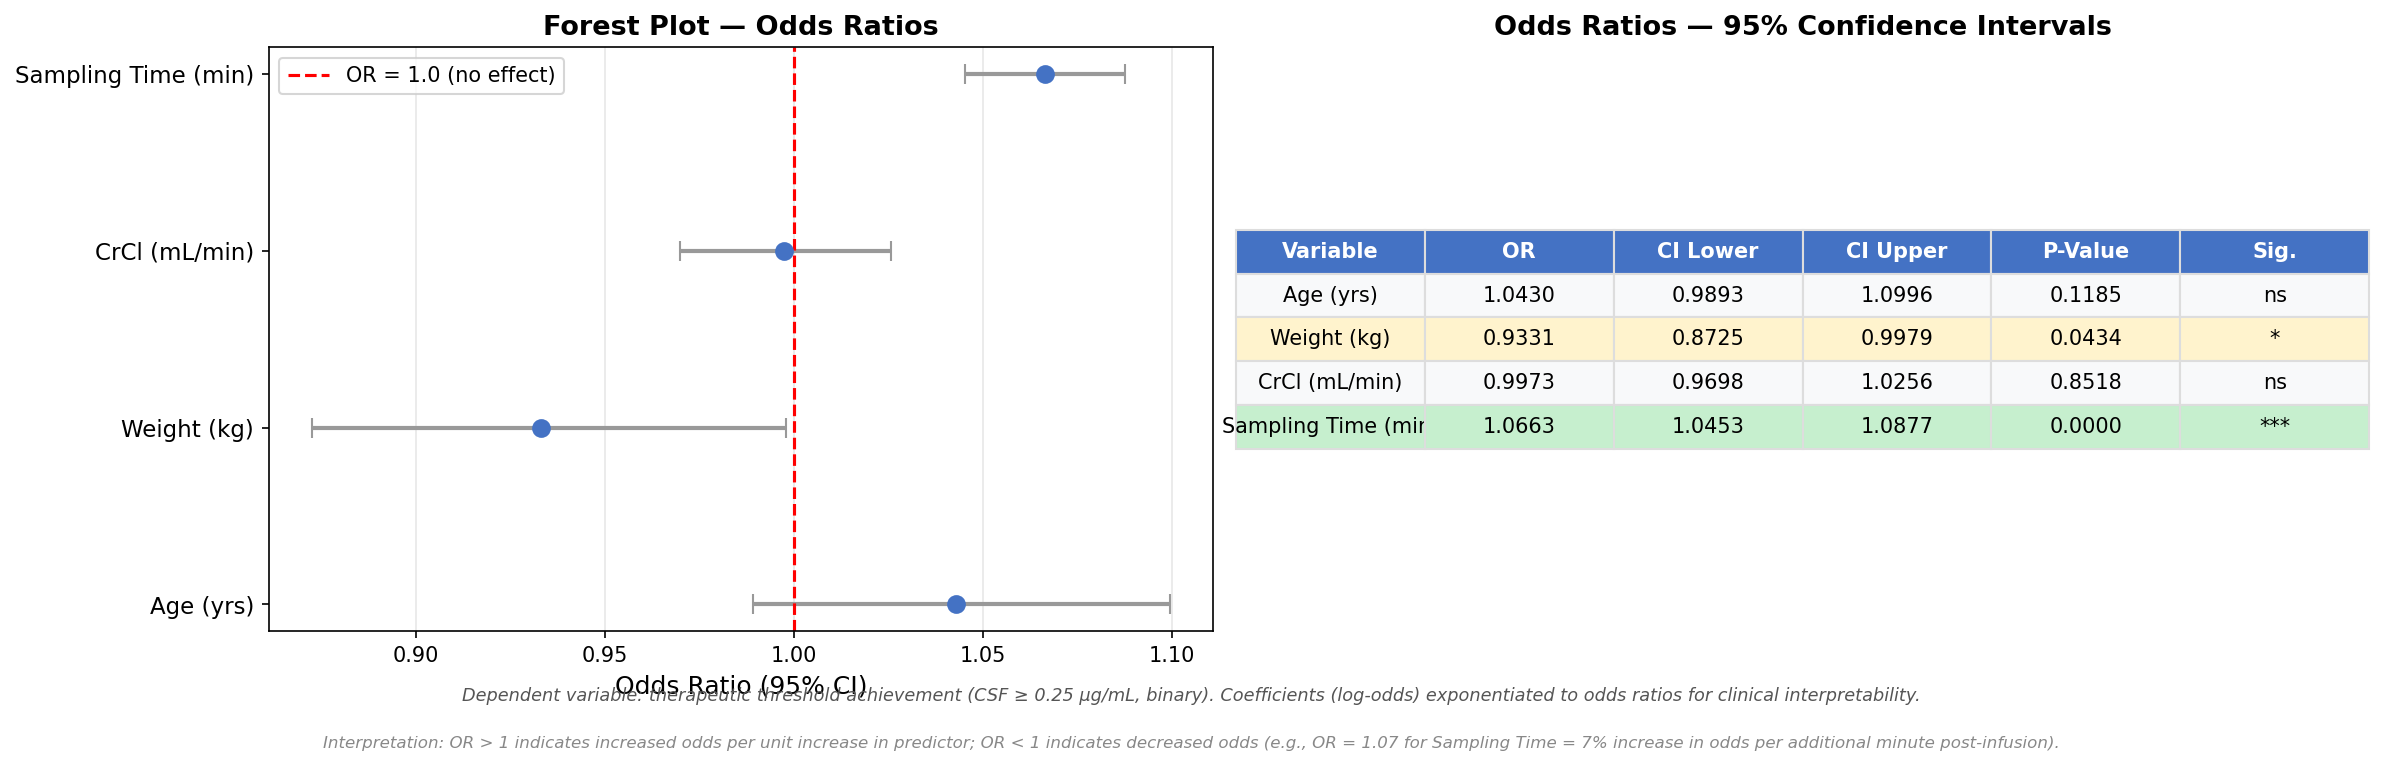
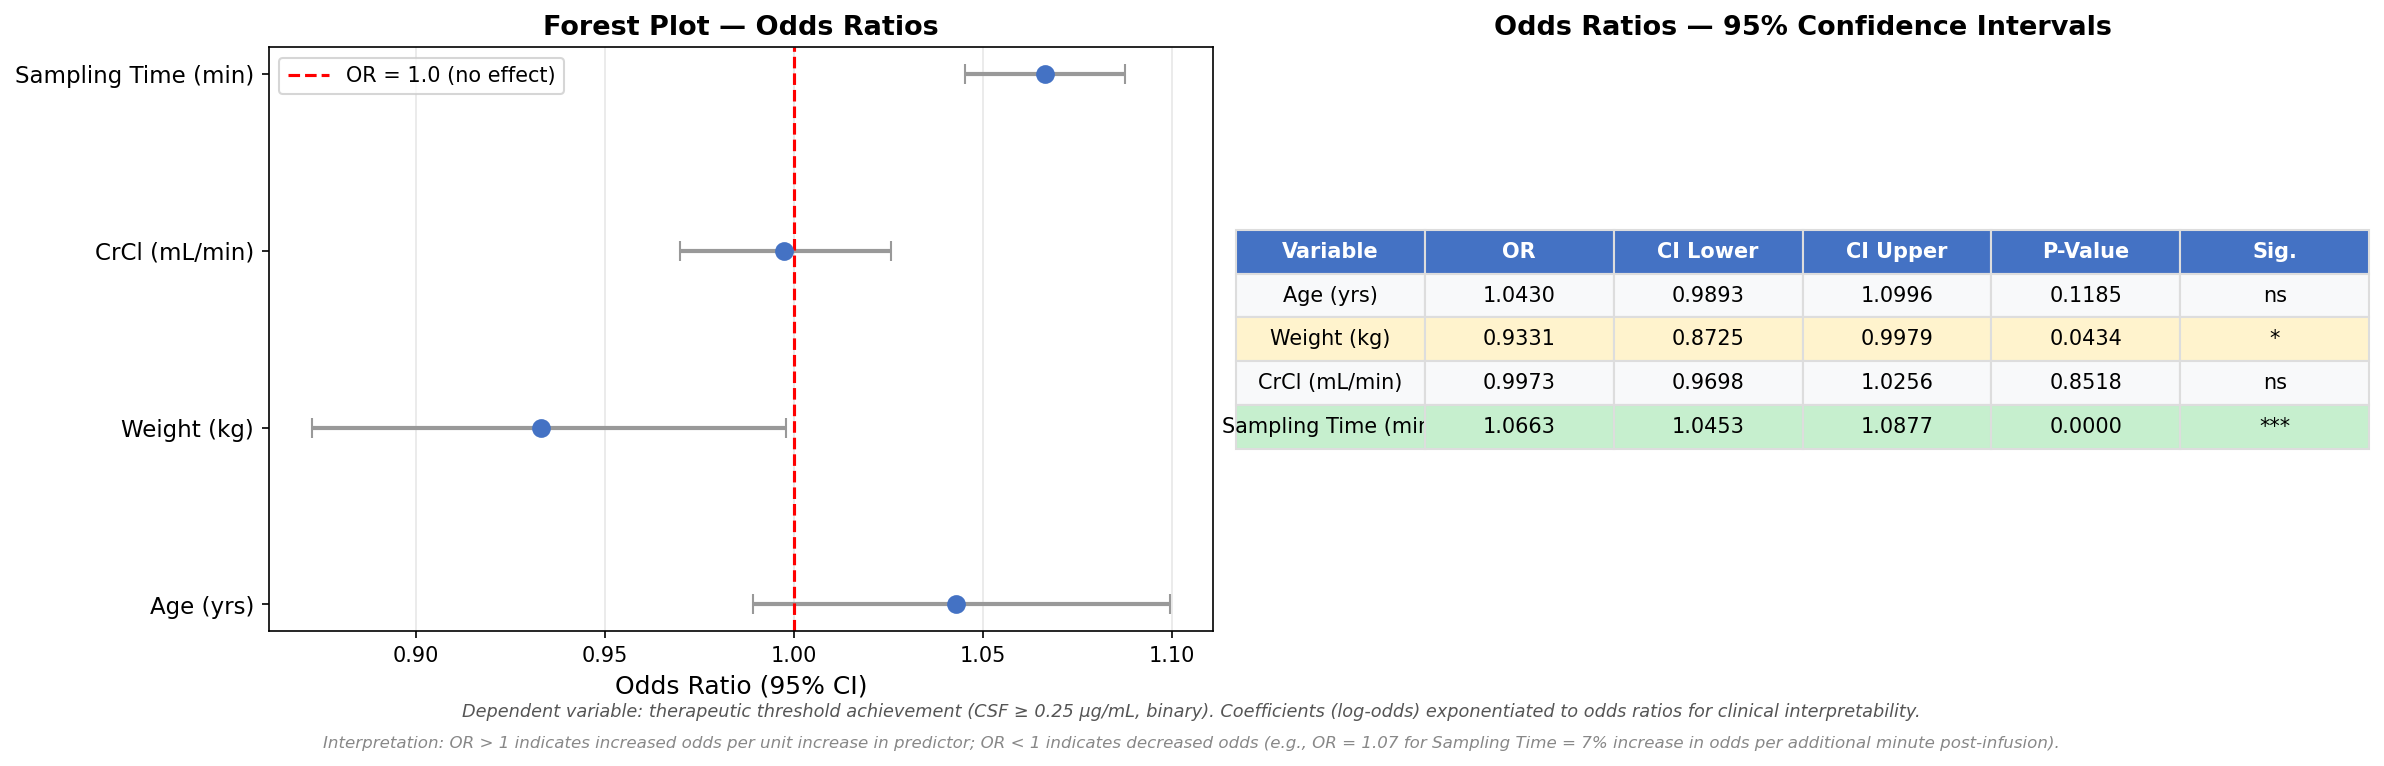
Adjust footer positioning in odds ratios figure

Changed region(s): [[0.1862, 0.9008, 0.807, 0.9608]]

diff --git a/analysis.py b/analysis.py
@@ -256,7 +256,7 @@ ax5b.set_title("Odds Ratios — 95% Confidence Intervals", fontsize=13, fontweig
 
 plt.tight_layout()
 fig5.subplots_adjust(bottom=0.18)
-fig5.text(0.5, 0.09,
+fig5.text(0.5, 0.07,
           "Dependent variable: therapeutic threshold achievement (CSF ≥ 0.25 µg/mL, binary). "
           "Coefficients (log-odds) exponentiated to odds ratios for clinical interpretability.",
           ha="center", fontsize=8.5, fontstyle="italic", color="#555555")
